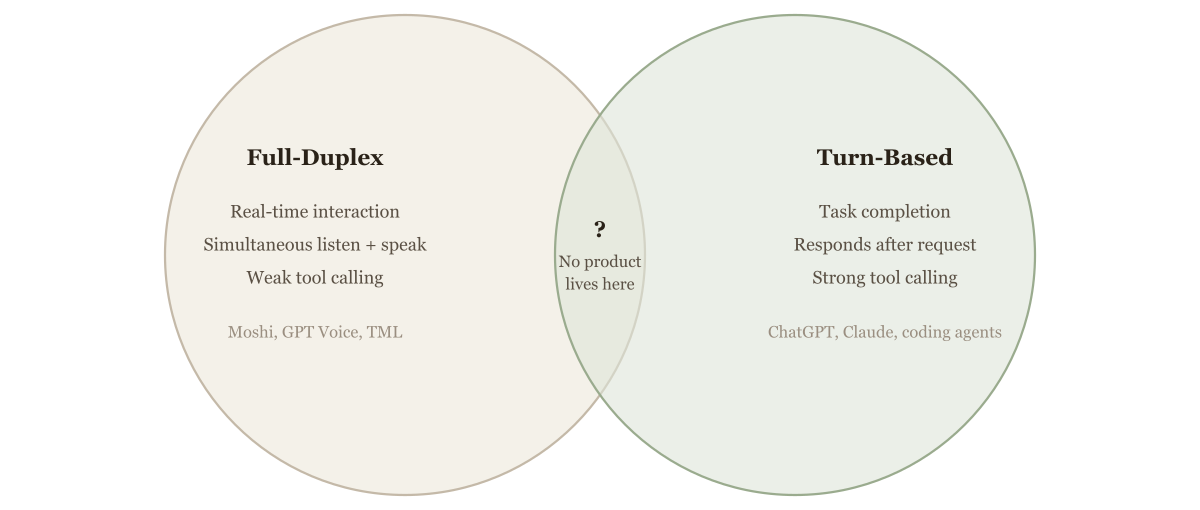
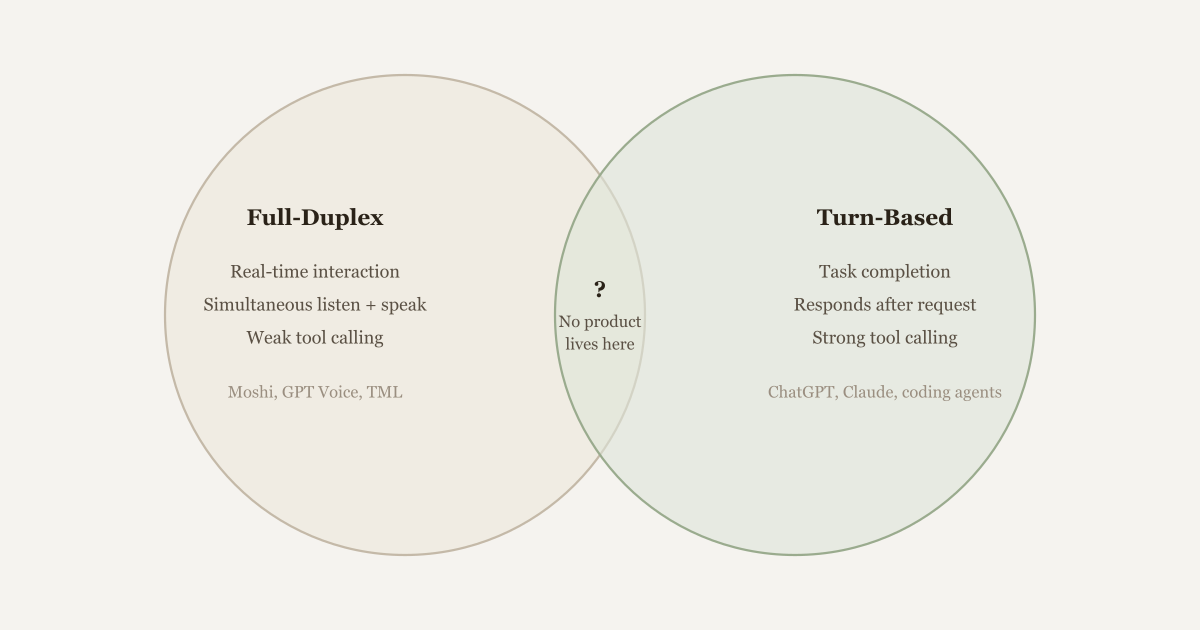
fix OG image: pad to 1200x630 for WhatsApp compatibility

diff --git a/posts/interaction-model/index.html b/posts/interaction-model/index.html
@@ -9,6 +9,8 @@
 <meta property="og:image" content="https://lilyzhng.github.io/posts/interaction-model/og-image.png">
 <meta property="og:url" content="https://lilyzhng.github.io/posts/interaction-model/">
 <meta property="og:type" content="article">
+<meta property="og:image:width" content="1200">
+<meta property="og:image:height" content="630">
 <meta name="twitter:card" content="summary_large_image">
 <meta name="twitter:title" content="Thoughts on Thinking Machine's Interaction Model">
 <meta name="twitter:description" content="I built a dual-model voice agent and tested it against every Thinking Machines demo. Here's what I found.">
